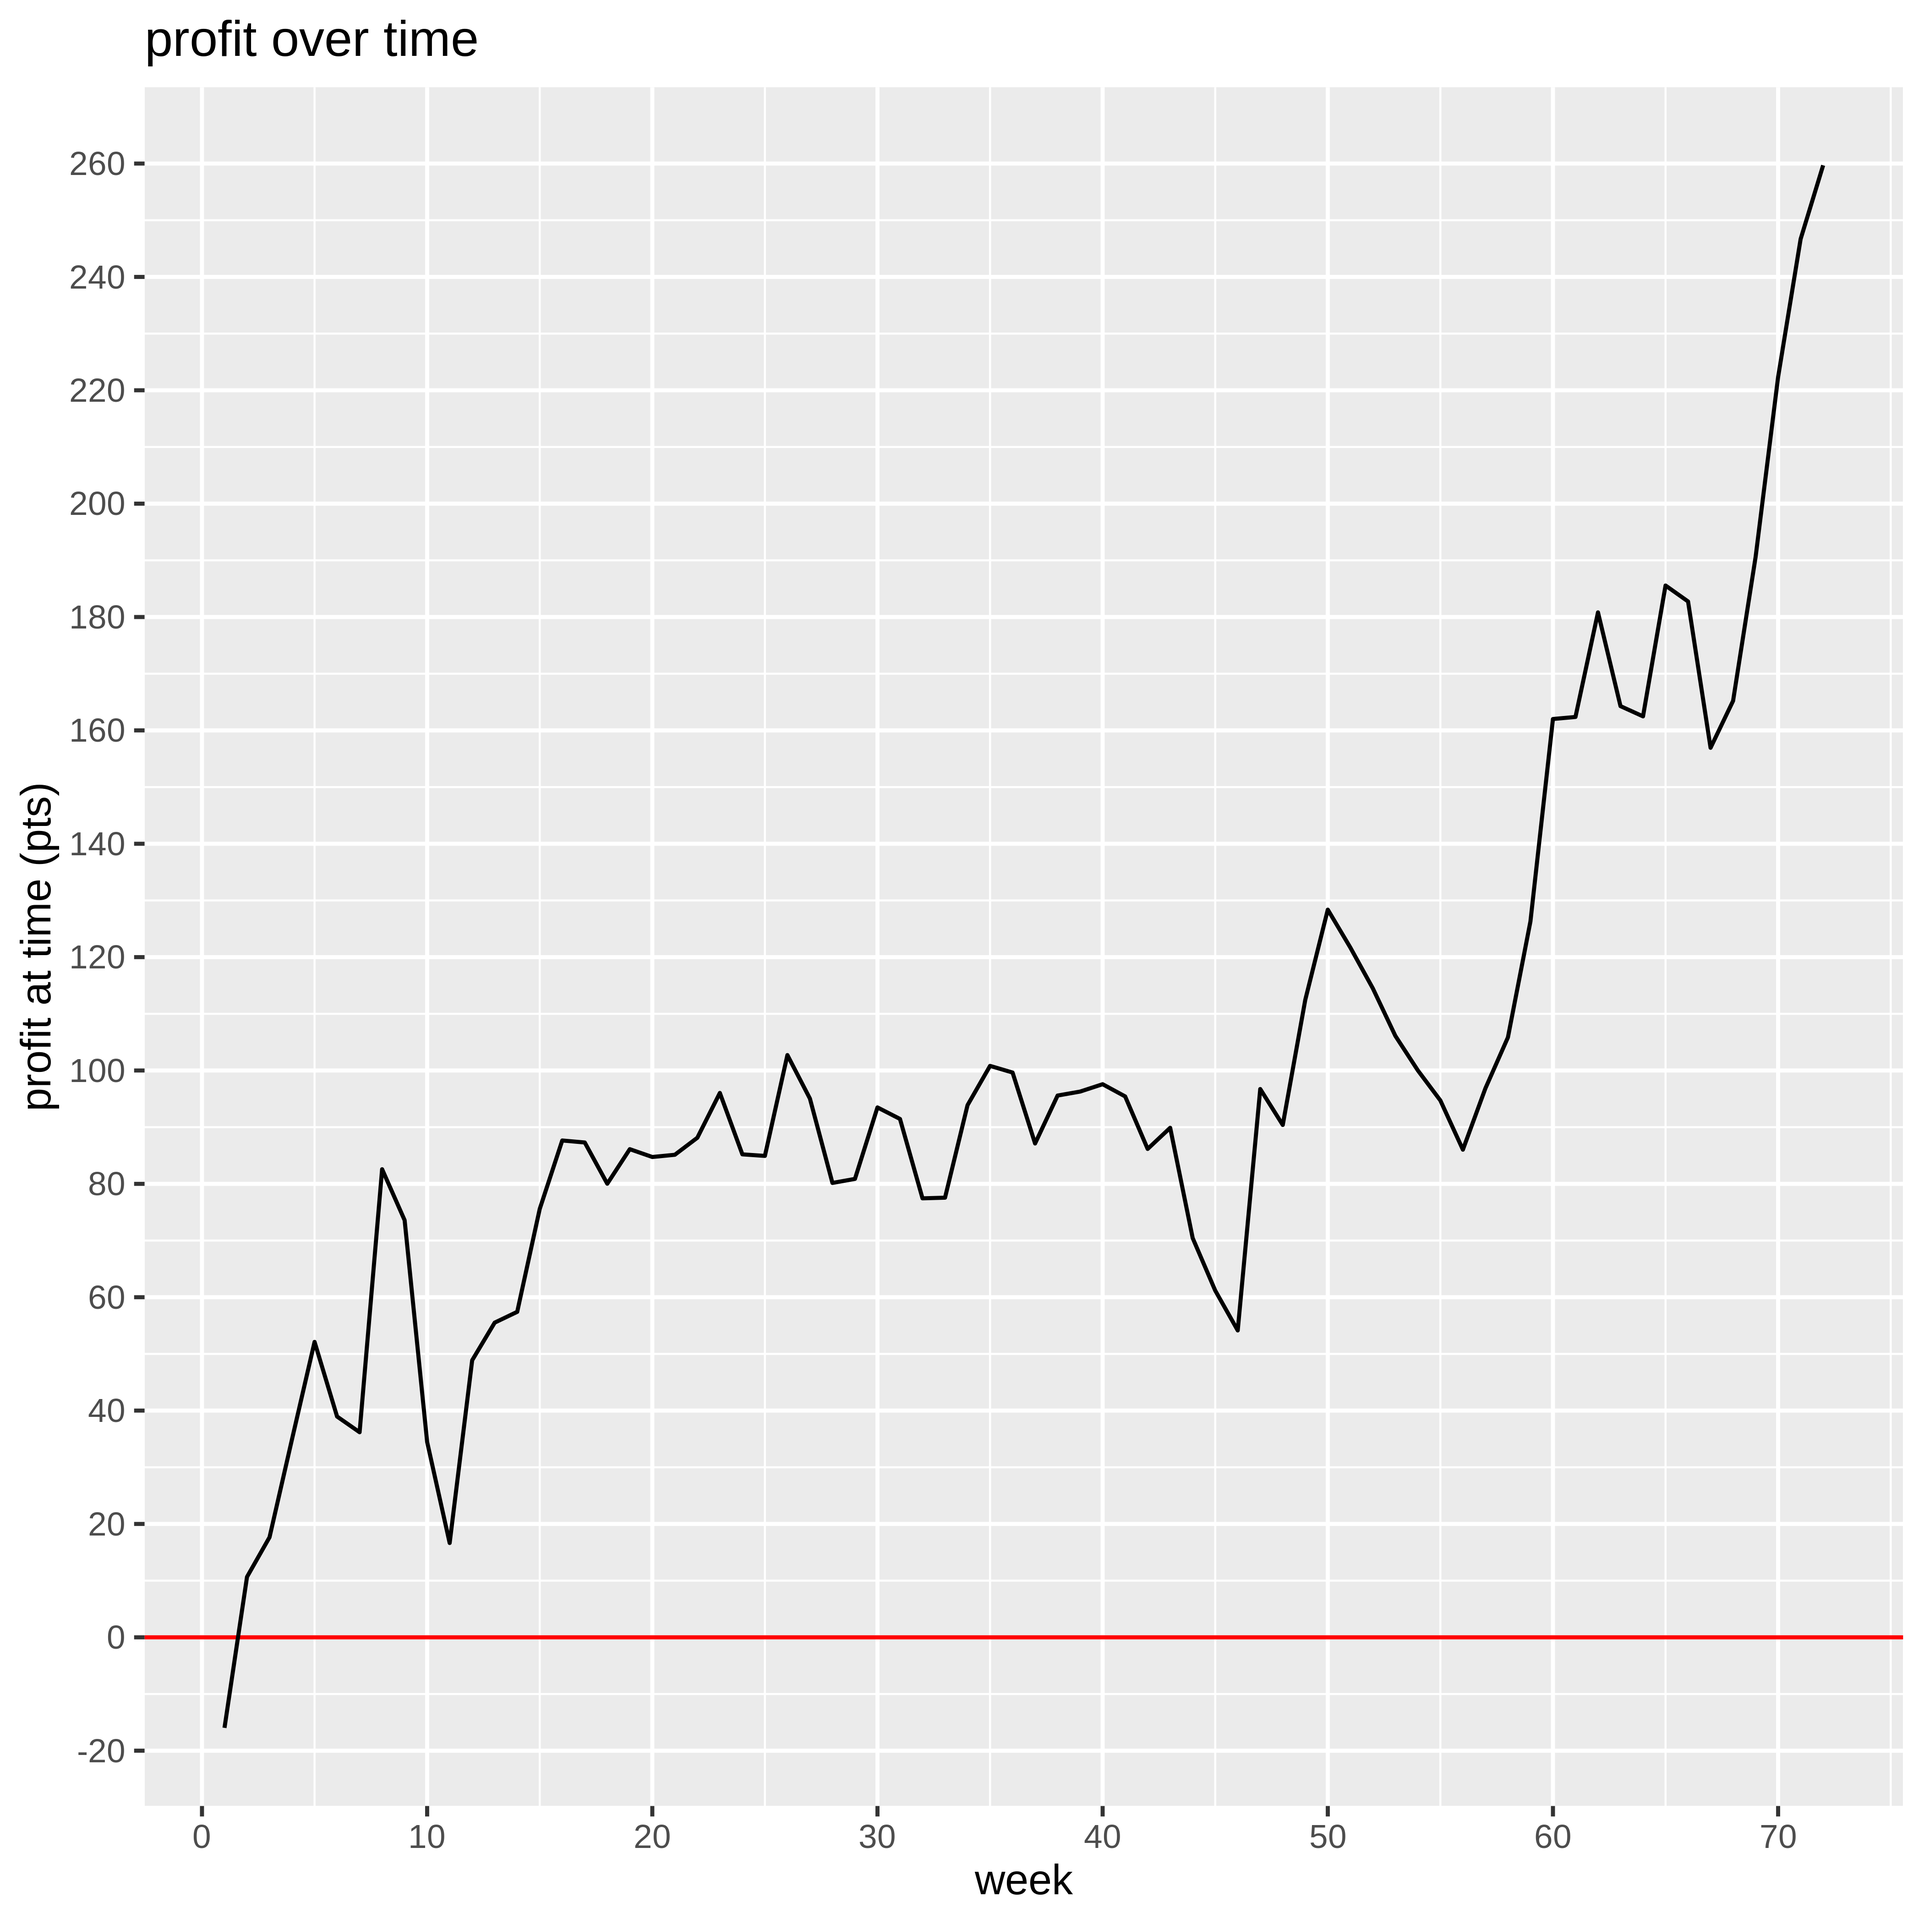
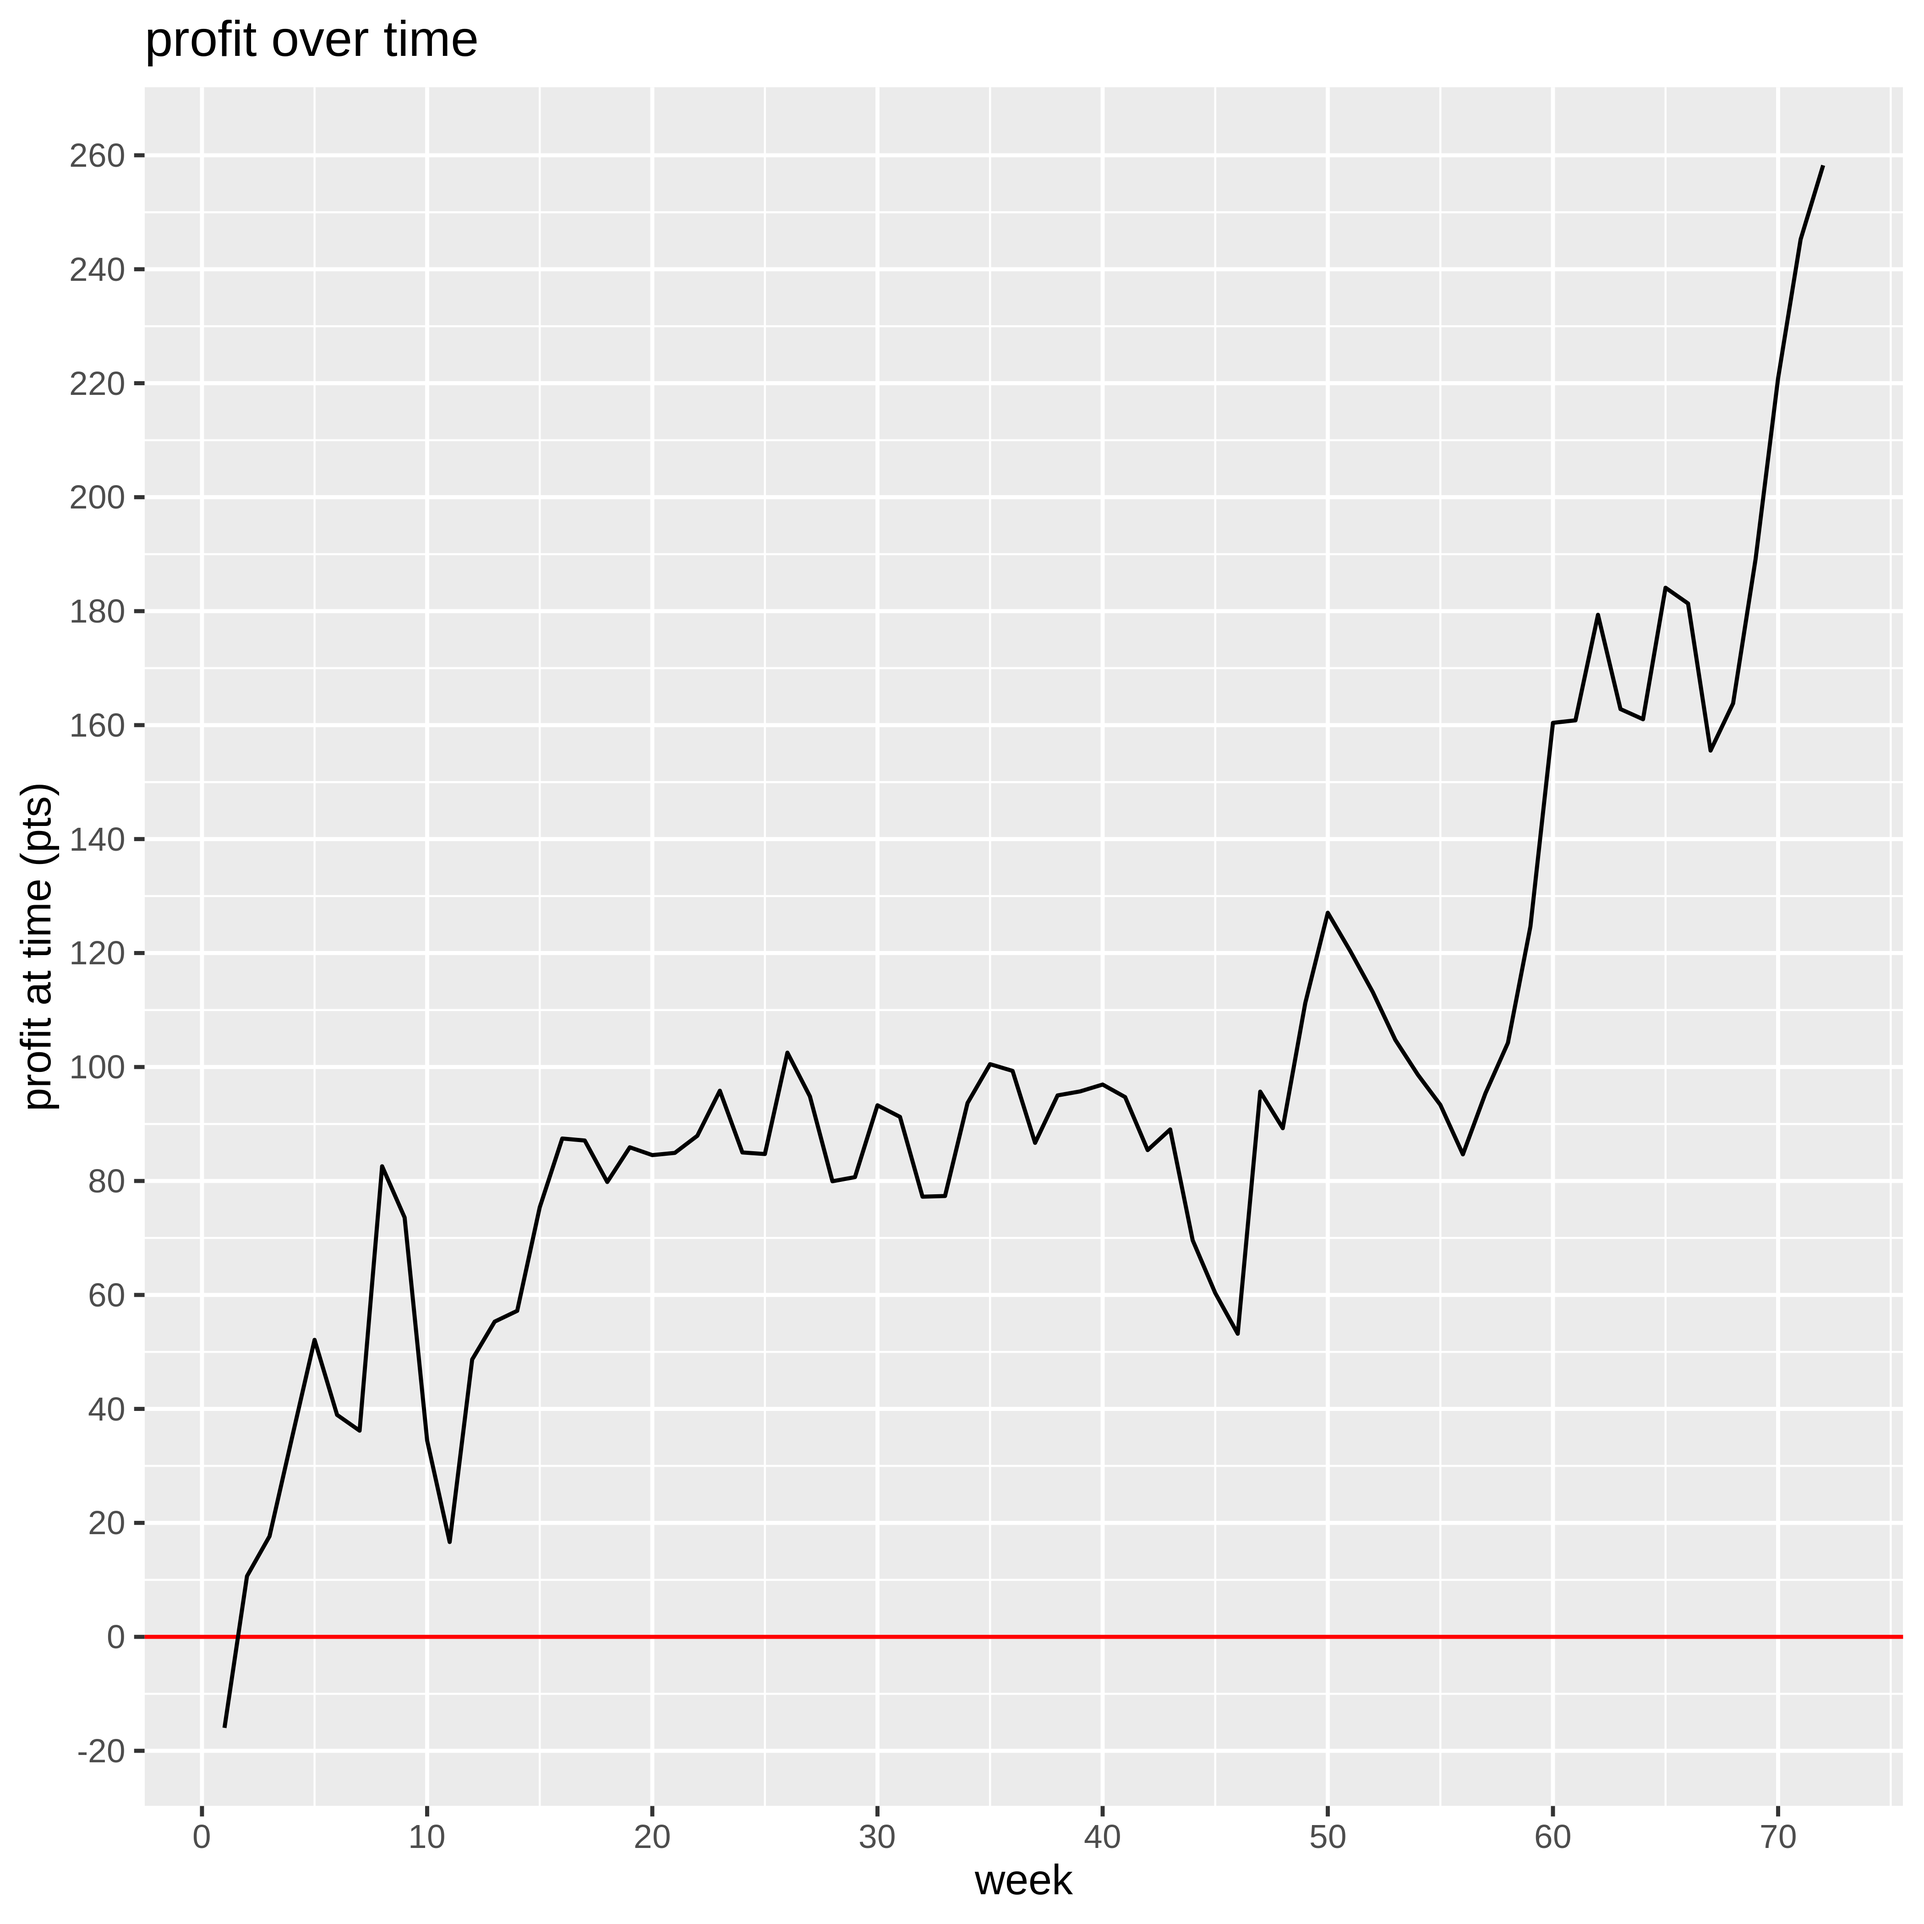
Daily auto build of report.md. Travis build: 1325.

diff --git a/report.md b/report.md
@@ -1,6 +1,6 @@
 ---
 title: "report"
-date: "2019-09-17 18:25:04"
+date: "2019-09-18 18:25:25"
 output: github_document
 ---
 
@@ -17,9 +17,9 @@ output: github_document
 
 
 
-We put in €9000 and we've made a profit of €13,735 on the bets. However, we've paid three subscriptions of £600 which amounts to €2,030 so our net profit is €11,705. That's a return on capital of 130.06%. This gives us a current bank of €20705.
+We put in €9000 and we've made a profit of €13,652 on the bets. However, we've paid three subscriptions of £600 which amounts to €2,031 so our net profit is €11,621. That's a return on capital of 129.12%. This gives us a current bank of €20621.
 
-We have wagered a total of €119,485 and made a betting profit of €13,735, which gives us a betting ROI of 11.5%.
+We have wagered a total of €119,485 and made a betting profit of €13,652, which gives us a betting ROI of 11.43%.
 
 
 # Have any bookies been riddled?
@@ -27,7 +27,7 @@ We have wagered a total of €119,485 and made a betting profit of €13,735, wh
 
 |bookmaker    |Aidan |David |Rory |total |
 |:------------|:-----|:-----|:----|:-----|
-|Matchbook    |+62   |0     |+13  |+75   |
+|Matchbook    |+61   |0     |+13  |+73   |
 |Unibet       |+17   |0     |+55  |+71   |
 |Paddy Power  |+61   |0     |+1   |+62   |
 |William Hill |+2    |0     |+48  |+50   |
@@ -66,7 +66,7 @@ We have wagered a total of €119,485 and made a betting profit of €13,735, wh
 
 
 
-We've had winnings of 1808 points and losses of 1545 points, so even if our odds were only a fraction 1545 / 1808 = 0.85 of what we actually got, we'd still be breaking even.
+We've had winnings of 1807 points and losses of 1545 points, so even if our odds were only a fraction 1545 / 1807 = 0.86 of what we actually got, we'd still be breaking even.
 
 
 # Winners and losers
@@ -90,8 +90,8 @@ Here's a count of the number of winners, losers, and places we've had.
 
 
 
-* We've made 882 _win only_ bets, on which we've made a profit of €13,110. 
-* We've made 111 _each way_ bets, on which we've made a profit of €625.
+* We've made 882 _win only_ bets, on which we've made a profit of €13,027. 
+* We've made 111 _each way_ bets, on which we've made a profit of €624.
 
 
 # Unmatched Bets
@@ -107,8 +107,8 @@ Of the bets that have been matched, there have been 163 winners and 702 losers. 
 
 
 
-We've made a gross profit of €13,735 and paid €3,383 in subscription fees, so our net profit is €10,352.
+We've made a gross profit of €13,651 and paid €3,384 in subscription fees, so our net profit is €10,267.
 
-* Rory has a 44% share of the investment, therefore his net profit is €4,601.
-* Aidan has a 44% share of the investment, therefore his net profit is €4,601.
-* John has a 11% share of the investment, therefore his net profit is €1,150.
+* Rory has a 44% share of the investment, therefore his net profit is €4,563.
+* Aidan has a 44% share of the investment, therefore his net profit is €4,563.
+* John has a 11% share of the investment, therefore his net profit is €1,141.
